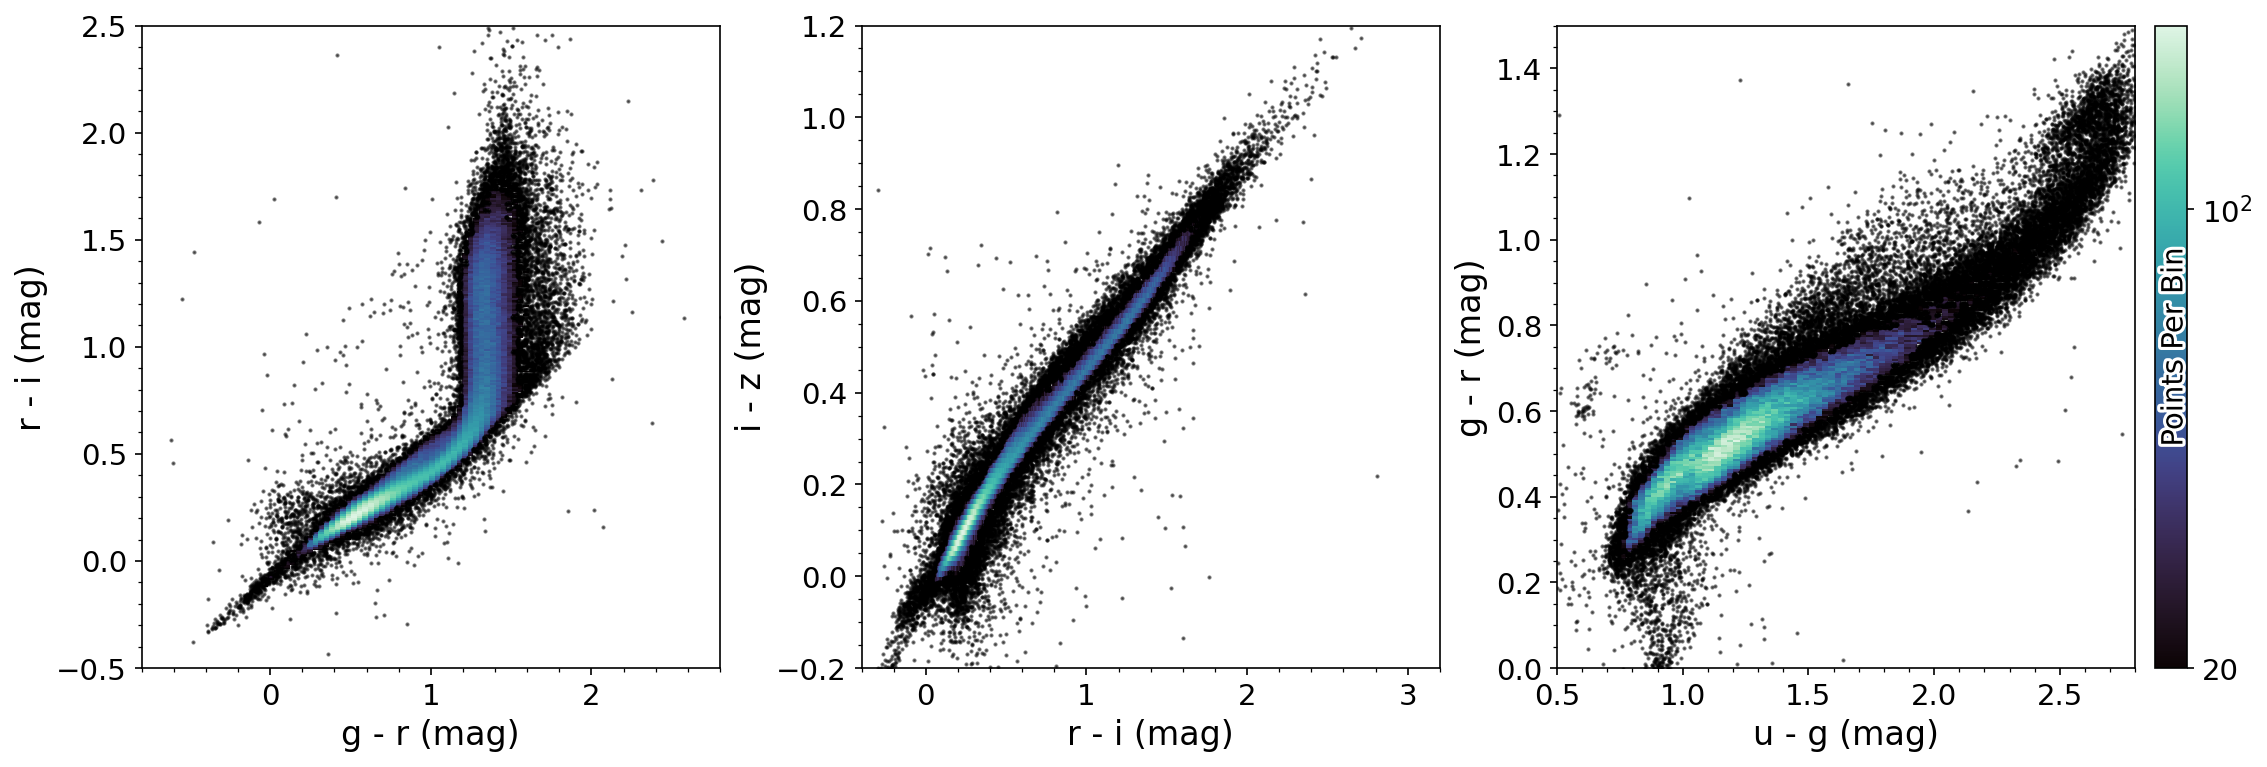
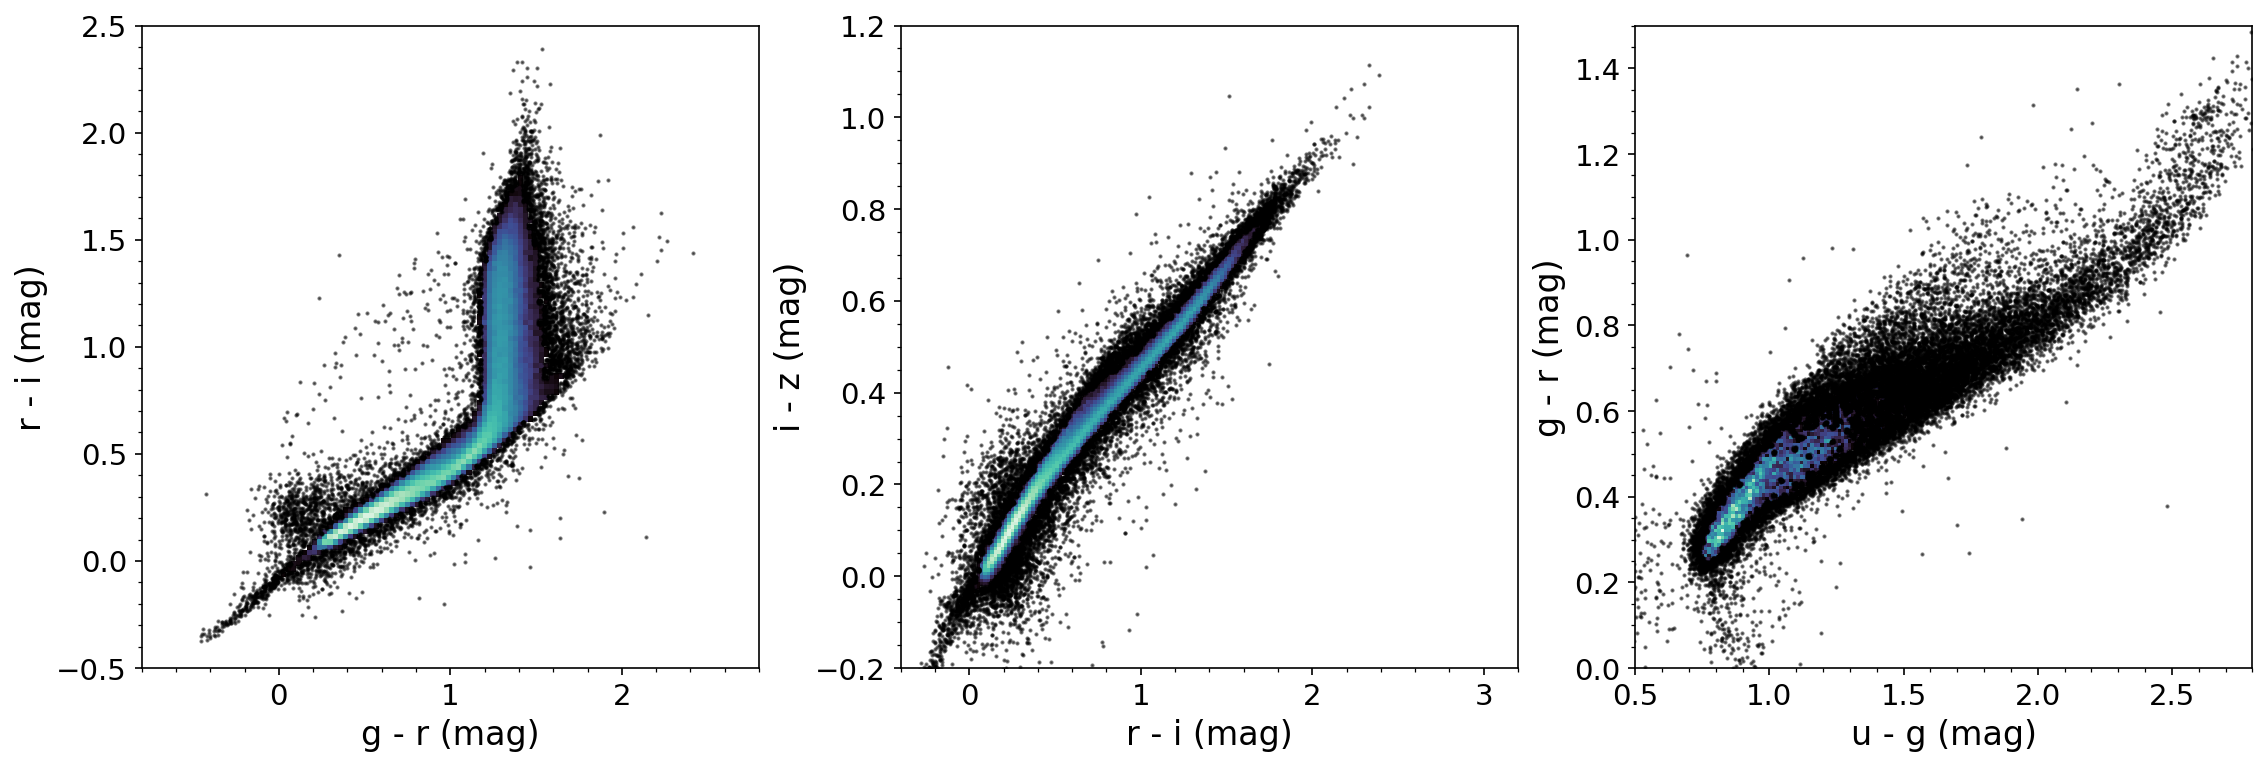
Final edits to stellar photom pre-pubboard

diff --git a/sections/performance.tex b/sections/performance.tex
@@ -1,15 +1,9 @@
 \section{Performance Characterization and Known Issues}
 \label{sec:performance}
-\begin{figure*}[htb!]
-\plotone{dp2_stellar_loci}
-\caption{Blah}
-\label{fig:dp2_stellar_loci}
-\end{figure*}
 
 For information regarding the performance and known issues of the data contained in the Early DP2 release, we refer to the Data Quality, Image Artifacts, and Known Issues sections of the Release Documentation at \url{https://dp2.lsst.io}.
 A detailed analysis of the validation of DP2 will be provided at the time of its release (expected in the \dptworeleasedate range).
 
-<<<<<<< HEAD
 \subsection{Astrometry}
 Astrometric performance is characterized by measuring internal consistency as well as accuracy with respect to an external reference, in this case the Gaia DR3 catalog.
 Metrics are calculated using isolated stars with magnitude between $17$ and $21.5$.
@@ -28,6 +22,32 @@ Furthermore, we are achieving almost the same repeatability at $200$~arcmin sepa
 \label{fig: amx}
 \end{figure}
 
+\subsection{Stellar Photometry}
+A key means of verifying the quality of the photometry, and in particular its absolute flux scale, is to compare it to an external photometric catalog.
+Such a comparison is, however, far from straightforward, not least because any external catalog will also have its own calibration systematics.
+Further, outside the deep fields, any comparison would be restricted to relatively bright stars and would therefore not be representative of the full DP2 depth.
+A proper treatment of these limitations is beyond the scope of this paper, and is left to a dedicated future paper on photometric performance.
+Instead, we assess the internal consistency of the DP2 photometry using the repeatability of per-visit measurements and the stellar loci measured on the Deep Coadds.
+Both are differential measures (i.e., between visits or between bands), so they test the relative photometric calibration but are insensitive to any error in the absolute flux scale.
+
+Since most of the DP2 footprint was observed multiple times, the repeatability of photometric measurements of the same star across visits provides a test of the consistency, and hence reliability, of the per-visit photometric calibration.
+We measure this repeatability using the PSF photometry of bright (SNR~$>200$), isolated, unresolved objects, the vast majority of which are stars.
+To keep the calculation computationally feasible, it is performed per tract: for each star with at least three measurements from the visits covering a given tract, we calculate the standard deviation of those measurements, and then take the median over all stars in the tract.
+This corresponds to the PA1 metric defined in the LSST Science Requirements Document \citep[][]{LPM-17}.
+Following recalibration using the \gls{FGCM} fits, the median PA1 values across all tracts with coverage are 9.1, 7.1, 6.8, 5.9, 5.8, and 6.2~mmag in the $ugrizy$ bands, respectively, meeting the minimum specifications of the Science Requirements Document.
+
+\begin{figure*}[htb!]
+\plotone{dp2_stellar_loci}
+\caption{Stellar loci measured on the Deep Coadds using PSF magnitudes from the \gls{DP2} Object catalog.
+From left to right, the $gri$, $riz$, and $ugr$ loci are shown for random subsets of bright ($i$-band SNR~$>200$; $grzy < 22.5$~mag), isolated, unresolved objects at Galactic latitude $|b|>20^\circ$, the latter to limit the effects of dust reddening; the $ugr$ panel additionally requires $u$-band SNR~$>50$.
+The first two panels each contain 253,926 objects, and the third contains 41,968.
+The color scale is logarithmic, with lighter colors indicating a higher density of objects, and is set independently for each panel; bins containing fewer than twenty objects are shown as individual points.}
+\label{fig:dp2_stellar_loci}
+\end{figure*}
+
+\figref{fig:dp2_stellar_loci} shows the $ugriz$ stellar loci of unresolved objects in the Deep Coadds, selected using the Object table's \texttt{extendedness} parameter (\secref{sec:drp-multivisit-detection}).
+The tightness of these loci indicates the good quality of the band-to-band relative photometry in the Deep Coadds.
+
 \subsection{Differential Chromatic Refraction}
 \gls{DCR} is the wavelength-dependent astrometric displacement arising from atmospheric refraction.
 The displacement is directed along the parallactic angle and increases toward shorter wavelengths, producing a color-dependent angular offset the size of which differs between bands.
@@ -39,12 +59,12 @@ The extent of any displacement due to DCR is dependent on airmass, meaning that 
 For each visit, we calculate the angular displacement of sources relative to their positions their positions in the matched reference catalog and projected onto the directions parallel and perpendicular to the parallactic angle.
 We examine both components as a function of source $g-i$ color; the perpendicular component serves as a control for effects not aligned with the expected DCR direction.
 
-\begin{figure}[ht]
+\begin{figure*}[tbp]
     \centering
-    \includegraphics[width=\textwidth]{figures/dp2_dcrHexbin_vertical.png}
-    \caption{DCR measurements for the ECDFS (left) and ecliptic fields (right) in LSSTCam data. For each field, the angular displacement of sources is measured relative to their positions in the matched reference catalog and projected onto directions parallel and perpendicular to the parallactic angle. The binned source density is shown as a function of $g − i$ color and angular displacement, revealing a color-dependent correlation along the parallel direction. This, and t he lack of a corresponding trend along the perpendicular direction, indicates the presence of DCR in the LSSTCam data. While we consider all Deep Coadds within five degrees of each field center for our analysis, for display purposes we only plot the DCR values from all matcthed sources in the coadd with the highest overall DCR metric.
+    \includegraphics[width=\textwidth]{figures/dp2_dcrHexbin_horizontal.png}
+    \caption{DCR measurements for the ECDFS (left) and ecliptic fields (right) in LSSTCam data. For each field, the angular displacement of sources is measured relative to their positions in the matched reference catalog and projected onto directions parallel and perpendicular to the parallactic angle. The binned source density is shown as a function of $g-i$ color and angular displacement, with linear (top) and logarithmic (bottom) color scales, revealing a color-dependent correlation along the parallel direction. This, and the lack of a corresponding trend along the perpendicular direction, indicates the presence of DCR in the LSSTCam data. While we consider all Deep Coadds within five degrees of each field center for our analysis, for display purposes we only plot the DCR values from all matched sources in the coadd with the highest overall DCR metric.
     \label{fig:dcr}}
-\end{figure}
+\end{figure*}
 
 When displaying the resulting DCR effect, the coadd with the highest DCR metric is selected for each field.
 In the case of the ECDFS, that specific coadd contains 7 visit images, spanning an airmass range of 1.02-1.36 with a mean of 1.14.
@@ -136,29 +156,3 @@ Robust processing of these fields is therefore essential to fully realizing the 
 To address this challenge, a dedicated crowded-field processing pipeline is currently under development.
 Early results are promising: regions that appear as merged detections in the standard pipeline can instead be successfully deblended into their constituent sources, enabling individual detection and measurement.
 The pipeline is currently undergoing testing, with integration into the LSST Science Pipelines for general use targeted within the next year.
-=======
-\subsection{Stellar Photometry}
-Since most of the DP2 footprint area was observed multiple times, we can use the multiple photometric measurements of the same star to assess the consistency, and hence reliability, of the per-visit photometric calibration. 
-This photometric repeatability is measured by calculating the standard deviation of multiple measurements of the same unresolved object (the vast majority of which will be stars) across all visits that observed it.
-We only use bright (i.e., SNR$>200$), isolated, unresolved objects (i.e., bright, isolated stars) to perform this measurement.
-To make this calculation computationally feasible, however, photometric repeatability is measured at the tract-level: the same set of stars are identified in each visit that cover a given tract.
-For each star, the standard deviation of the multiple photometric measurements across all visits is measured.
-A star must have at least three measurements in order for the standard deviation to be calculated.
-We then calculate the median standard deviation over all stars in a tract to obtain a single value for the photometric repeatability within that tract.
-This is referred to as ``PA1'' \citep[][]{LPM-17}.    
-Following recalibration using the \gls{FGCM} fits, the photometric repeatability is excellent: across all tracts with coverage, the median PA1 values for the $ugrizy$ bands are 9.1, 7.1, 6.8, 5.9, 5.8, and 6.2, mmag respectively.
-
-We turn to stellar loci in $ugriz$ to assess the quality of the photometry of Deep Coadds; these are shown in \figref{fig:coadd_stellar_loci}.
-Unresolved objects are selected using the Object table's extendedness parameter.
-This parameter is a measure of the difference between the PSF flux and the CModel flux; a large value (\todo{quantify!}) inidicates a substantial difference betweem the CModel fit and the PSF model, which is taken as implying that the object is resolved.
-The narrowness \todo{quantify!} of the stellar loci are testament to the quality of the photometry measured in the Deep Coadds.
-
-Neither the repeatability nor the stellar locus tests described above are sensitive to errors in the absolute flux scale, since both are differential measures (i.e., between visits or between bands) in which any common offsets will cancel.
-As a simple check of absolute calibration, we compare DP2 photometry to \gls{Gaia}\todo{confirm which Gaia data product/release}, finding a median offset of \todo{quantify, per band} and a scatter of \todo{quantify, per band} in the \todo{bands} bands.
-This comparison should, however, be interpreted with caution.
-Gaia's own photometry carries calibration systematics of its own -- most notably chromaticity-related biases in the BP/RP spectra used to synthesize magnitudes in the LSST passbands, which are known to be more significant for faint and red sources -- so agreement (or disagreement) with Gaia cannot be uncritically attributed to DP2.
-The comparison is also restricted to the relatively bright, mostly unsaturated stars in the magnitude range where Gaia and LSST overlap, and is therefore not representative of the full DP2 depth.
-Furthermore, converting Gaia spectra into the LSST passbands is itself a synthetic-photometry exercise, so this test is better described as a comparison between two calibration systems than as a validation against an independent physical standard.
-A more thorough assessment of DP2's absolute photometric calibration -- including a proper treatment of these systematics, alongside complementary tests such as recovery of the fluxes of sources injected into the images at known brightness -- is left to a dedicated future paper on photometric performance.
-
->>>>>>> d486102 (Add rough photometry performance)
